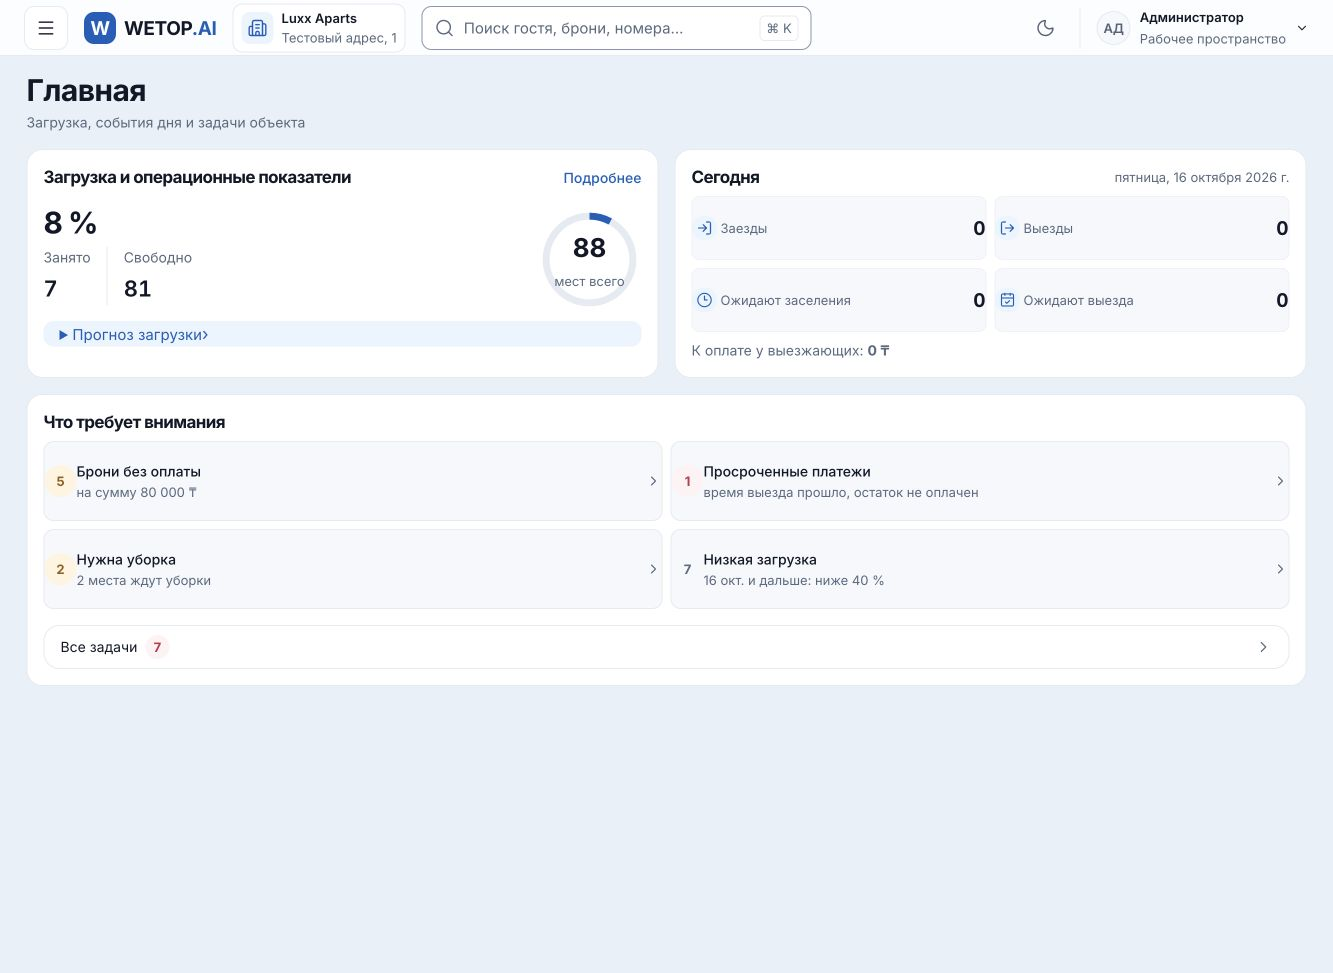
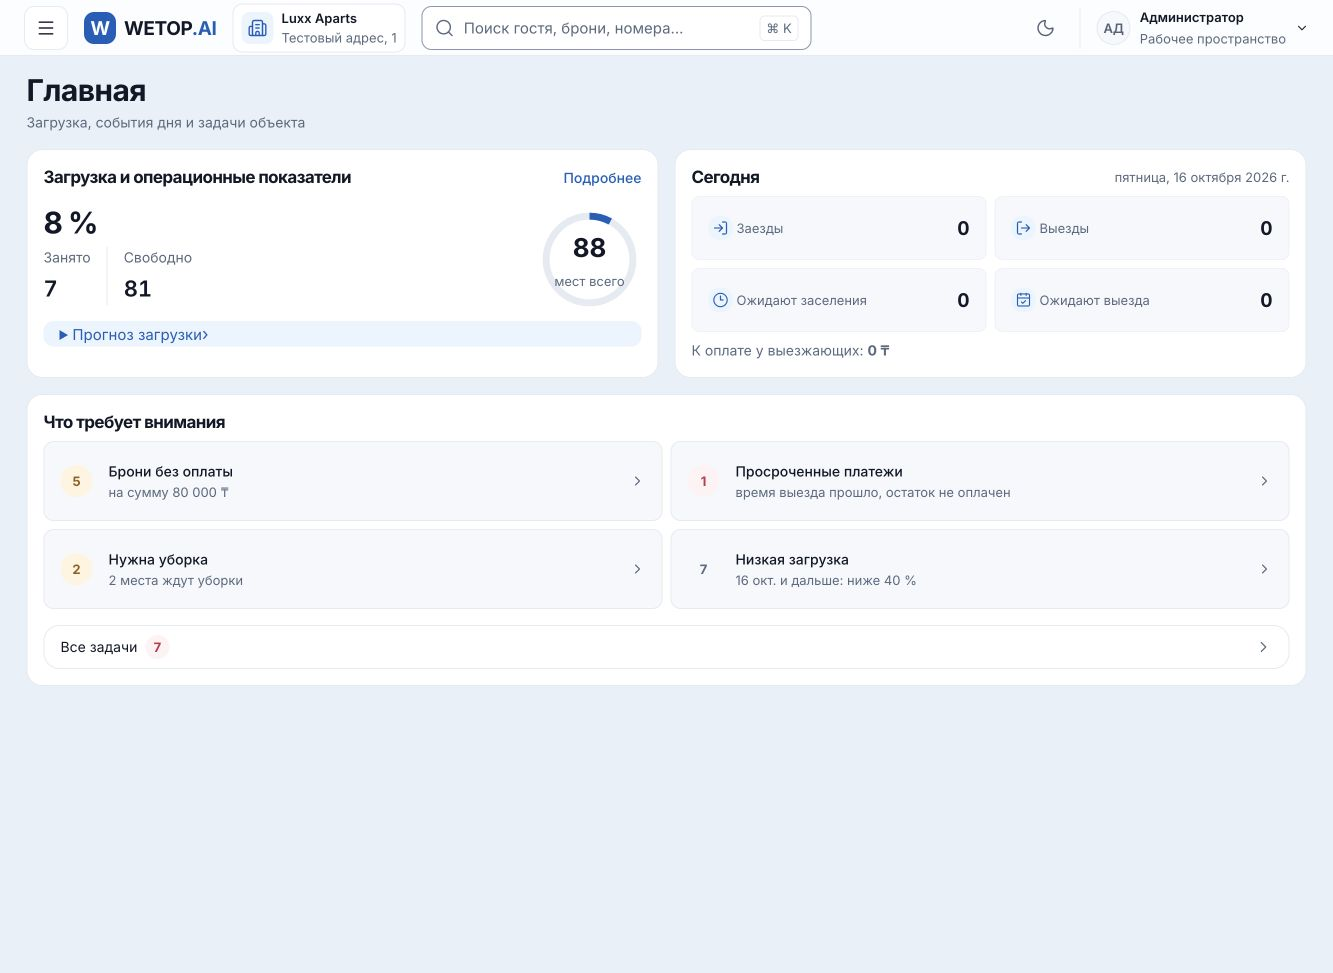
fix(home): use existing spacing tokens and record final checks

diff --git a/apps/web/src/app/today/hospitality-home.css b/apps/web/src/app/today/hospitality-home.css
@@ -34,7 +34,7 @@
   .hospitality-home .biz-today__tiles { gap: var(--space-2); }
   .hospitality-home .biz-today__tile {
     min-height: 64px;
-    padding: var(--space-3);
+    padding: var(--space-4);
     text-decoration: none;
   }
   .hospitality-home .biz-attention__list {
@@ -45,12 +45,12 @@
   .hospitality-home .biz-attention__list a {
     height: 100%;
     min-height: 80px;
-    padding: var(--space-3);
+    padding: var(--space-4);
     border: 1px solid var(--border);
     border-radius: var(--radius-control);
     background: var(--surface-muted);
     text-decoration: none;
-    gap: var(--space-3);
+    gap: var(--space-4);
   }
   .hospitality-home .biz-attention__list a:hover { background: var(--row-hover); }
   .hospitality-home .biz-attention__count { min-width: 32px; height: 32px; }

diff --git a/reports/home-layout-2026-10-15/README.md b/reports/home-layout-2026-10-15/README.md
@@ -12,3 +12,7 @@
 - Итоговая геометрия дополнительно проверена на 1440, 1024 и 390 px.
 
 Снимок local-desktop.png: локальный стенд с вымышленными данными, не доказательство публикации на домене.
+
+Итоговые проверки после исправления отсутствующего --space-3 на существующий --space-4:
+- tokens + design-slop: 2026-10-15T20-26-19Z-unit-0f39, 33/33.
+- геометрия 1440/1024/390: 2026-10-15T20-26-21Z-e2e-4c59, 1/1.
